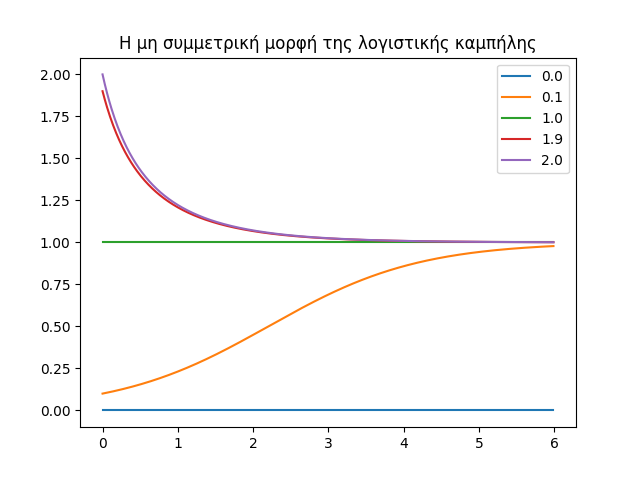
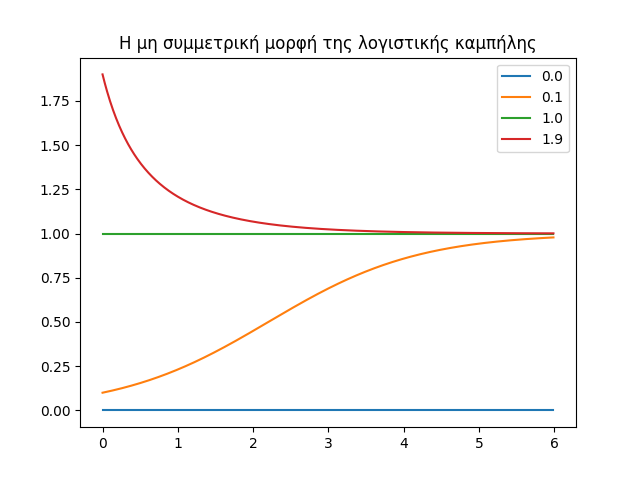
removed bloat, getting ready to make a generalfunction class

diff --git a/Aksisi1/logistic.py b/Aksisi1/logistic.py
@@ -1,12 +1,8 @@
 import numpy as np
 import matplotlib.pyplot as plt
 
-def xdot1(c):
+def xdot(c):
     val = c*(1-c)
-    return val
-
-def xdot2(c):
-    val = c*(1-c)*(2-c)
     return val
 
 dt=0.01
@@ -16,12 +12,12 @@ stepnum=len(step)
 x=np.zeros(stepnum)
 t=np.zeros(stepnum)
 
-x0=np.array([0,0.1,1,1.9,2])
+x0=np.array([0,0.1,1,1.9])
 for i in np.arange(len(x0)):
     x[0]=x0[i]
     for j in np.arange(1,stepnum):
-        t[j]=t[j-1]*dt
-        x[j]=x[j-1]+dt*xdot1(x[j-1])
+        t[j]=(j-1)*dt
+        x[j]=x[j-1]+dt*xdot(x[j-1])
     plt.plot(step, x, '-' )
 plt.legend(x0)
 plt.title('Η μη συμμετρική μορφή της λογιστικής καμπήλης')

diff --git a/Aksisi1/logistic-s.py b/Aksisi1/logistic-s.py
@@ -1,11 +1,7 @@
 import numpy as np
 import matplotlib.pyplot as plt
 
-def xdot1(c):
-    val = c*(1-c)
-    return val
-
-def xdot2(c):
+def xdot(c):
     val = c*(1-c)*(2-c)
     return val
 
@@ -20,8 +16,8 @@ x0=np.array([0,0.1,1,1.9,2])
 for i in np.arange(len(x0)):
     x[0]=x0[i]
     for j in np.arange(1,stepnum):
-        t[j]=t[j-1]*dt
-        x[j]=x[j-1]+dt*xdot2(x[j-1])
+        t[j]=(j-1)*dt
+        x[j]=x[j-1]+dt*xdot(x[j-1])
     plt.plot(step, x, '-' )
 plt.legend(x0)
 plt.title('Η συμμετρική μορφή της λογιστικής καμπήλης')
